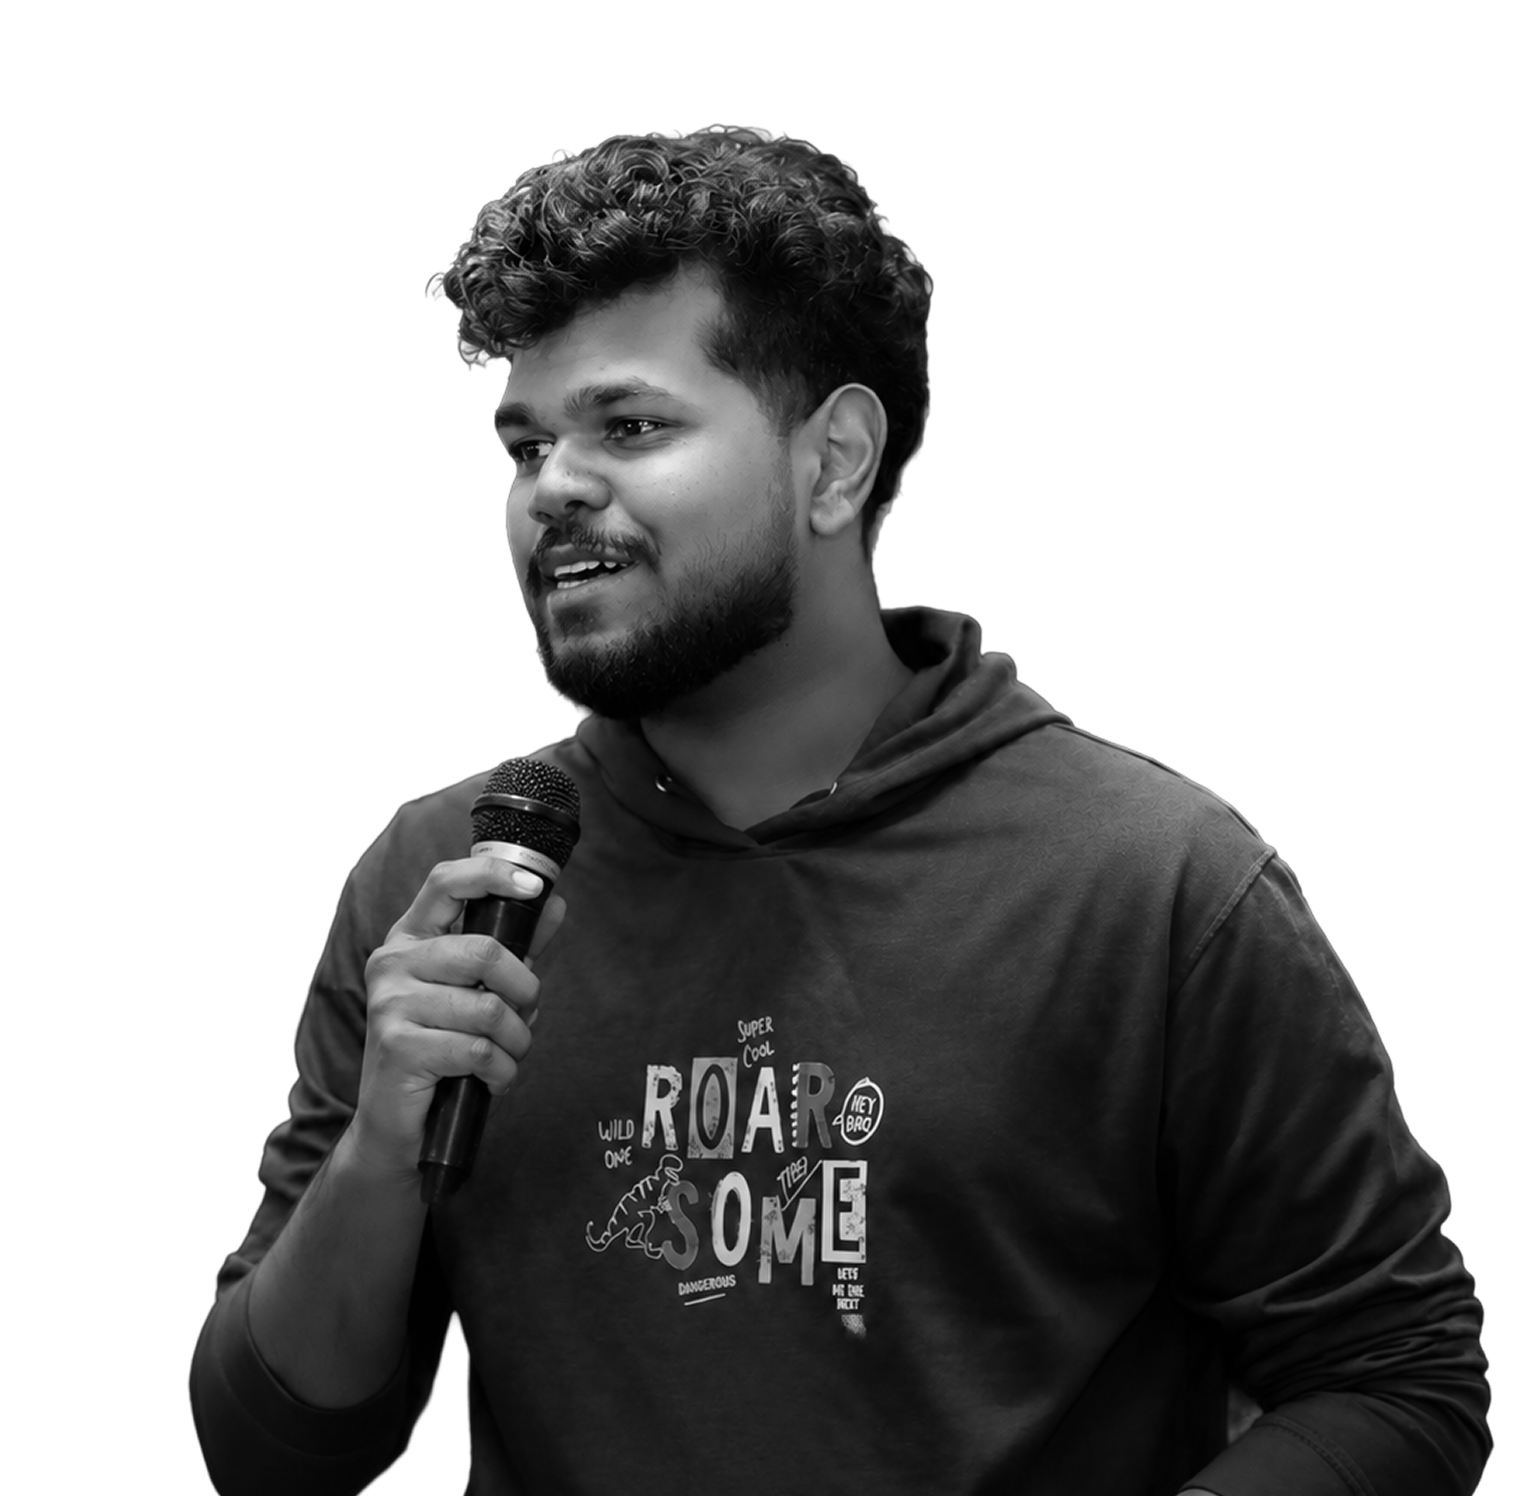
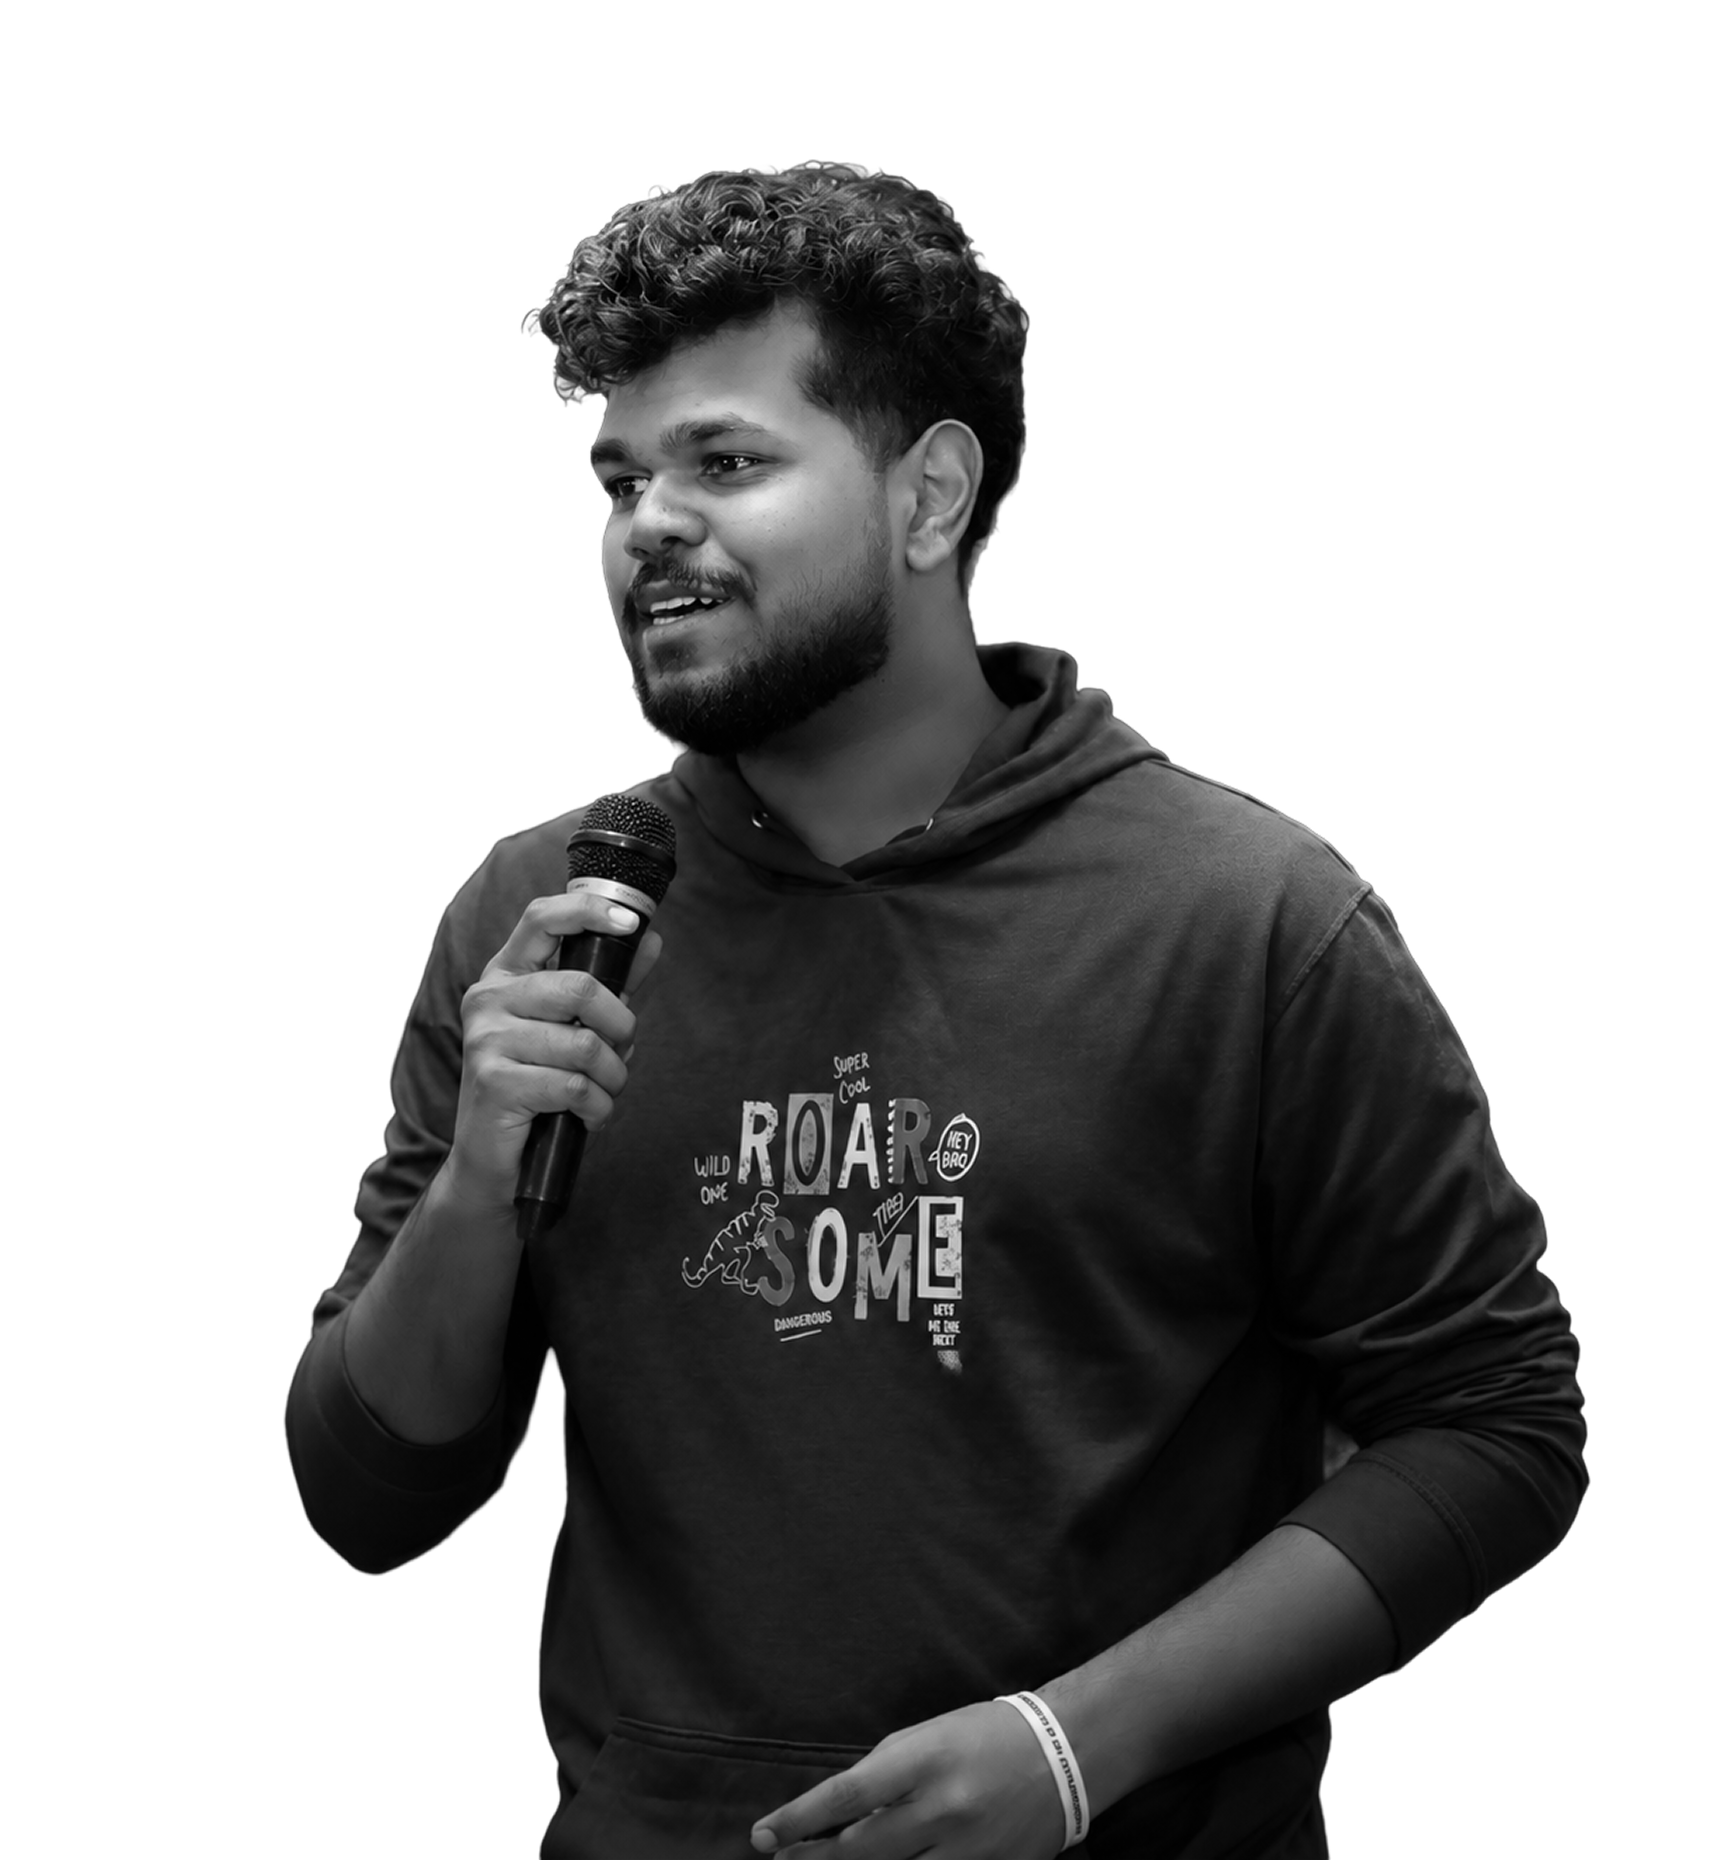
fix(about): enlarge Waruna portrait, remove hover scaling, and add bottom, right, and left shadow fade overlays to seamlessly dissolve all uncropped image boundaries

Changed region(s): [[0.1234, 0.0615, 0.9869, 1.0], [0.8018, 0.7072, 0.8327, 0.738], [0.6168, 0.7687, 0.6476, 0.7995]]

diff --git a/app/sections/About.tsx b/app/sections/About.tsx
@@ -66,51 +66,57 @@ const About = ({ isAboutPage = false }: AboutProps) => {
           {/* Right Image Showcase */}
           <div className="relative lg:order-last order-first flex items-center justify-center">
             {isAboutPage ? (
-              /* About Page Exclusive: Orbiting Circles + Waruna Speaking Portrait (No overflow clipping, aligned orbits) */
-              <div className="relative flex h-[550px] w-full max-w-[550px] items-center justify-center">
+              /* About Page Exclusive: Heroic Waruna Portrait + Subtle Orbiting DevOps Circles */
+              <div className="relative flex h-[580px] w-full max-w-[580px] items-center justify-center">
                 {/* Orbiting Circles Layer 1 (Inner Orbit) */}
-                <OrbitingCircles radius={180} duration={25} iconSize={44}>
-                  <div className="w-11 h-11 rounded-xl bg-neutral-900/90 border border-neutral-700/80 p-2 shadow-lg flex items-center justify-center">
-                    <Image src="/icons8-kubernetes-48.png" alt="Kubernetes" width={32} height={32} className="object-contain" />
+                <OrbitingCircles radius={170} duration={28} iconSize={40}>
+                  <div className="w-10 h-10 rounded-xl bg-neutral-950/90 border border-neutral-800/90 p-2 shadow-lg flex items-center justify-center">
+                    <Image src="/icons8-kubernetes-48.png" alt="Kubernetes" width={28} height={28} className="object-contain" />
                   </div>
-                  <div className="w-11 h-11 rounded-xl bg-neutral-900/90 border border-neutral-700/80 p-2 shadow-lg flex items-center justify-center">
-                    <Image src="/icons8-terraform-48.png" alt="Terraform" width={32} height={32} className="object-contain" />
+                  <div className="w-10 h-10 rounded-xl bg-neutral-950/90 border border-neutral-800/90 p-2 shadow-lg flex items-center justify-center">
+                    <Image src="/icons8-terraform-48.png" alt="Terraform" width={28} height={28} className="object-contain" />
                   </div>
-                  <div className="w-11 h-11 rounded-xl bg-neutral-900/90 border border-neutral-700/80 p-2 shadow-lg flex items-center justify-center">
-                    <Image src="/aws.png" alt="AWS" width={32} height={32} className="object-contain" />
+                  <div className="w-10 h-10 rounded-xl bg-neutral-950/90 border border-neutral-800/90 p-2 shadow-lg flex items-center justify-center">
+                    <Image src="/aws.png" alt="AWS" width={28} height={28} className="object-contain" />
                   </div>
-                  <div className="w-11 h-11 rounded-xl bg-neutral-900/90 border border-neutral-700/80 p-2 shadow-lg flex items-center justify-center">
-                    <Image src="/icons8-docker-144.png" alt="Docker" width={32} height={32} className="object-contain" />
+                  <div className="w-10 h-10 rounded-xl bg-neutral-950/90 border border-neutral-800/90 p-2 shadow-lg flex items-center justify-center">
+                    <Image src="/icons8-docker-144.png" alt="Docker" width={28} height={28} className="object-contain" />
                   </div>
                 </OrbitingCircles>
 
                 {/* Orbiting Circles Layer 2 (Outer Orbit, Reverse) */}
-                <OrbitingCircles radius={260} duration={35} reverse iconSize={48}>
-                  <div className="w-12 h-12 rounded-xl bg-neutral-900/90 border border-neutral-700/80 p-2 shadow-lg flex items-center justify-center">
-                    <Image src="/opentofu.webp" alt="OpenTofu" width={34} height={34} className="object-contain" />
+                <OrbitingCircles radius={250} duration={38} reverse iconSize={44}>
+                  <div className="w-11 h-11 rounded-xl bg-neutral-950/90 border border-neutral-800/90 p-2 shadow-lg flex items-center justify-center">
+                    <Image src="/opentofu.webp" alt="OpenTofu" width={30} height={30} className="object-contain" />
                   </div>
-                  <div className="w-12 h-12 rounded-xl bg-neutral-900/90 border border-neutral-700/80 p-2 shadow-lg flex items-center justify-center">
-                    <Image src="/icons8-azure-96.png" alt="Azure" width={34} height={34} className="object-contain" />
+                  <div className="w-11 h-11 rounded-xl bg-neutral-950/90 border border-neutral-800/90 p-2 shadow-lg flex items-center justify-center">
+                    <Image src="/icons8-azure-96.png" alt="Azure" width={30} height={30} className="object-contain" />
                   </div>
-                  <div className="w-12 h-12 rounded-xl bg-neutral-900/90 border border-neutral-700/80 p-2 shadow-lg flex items-center justify-center">
-                    <Image src="/Linux.png" alt="Linux" width={34} height={34} className="object-contain" />
+                  <div className="w-11 h-11 rounded-xl bg-neutral-950/90 border border-neutral-800/90 p-2 shadow-lg flex items-center justify-center">
+                    <Image src="/Linux.png" alt="Linux" width={30} height={30} className="object-contain" />
                   </div>
-                  <div className="w-12 h-12 rounded-xl bg-neutral-900/90 border border-neutral-700/80 p-2 shadow-lg flex items-center justify-center">
-                    <Image src="/argo-cd.webp" alt="Argo CD" width={34} height={34} className="object-contain" />
+                  <div className="w-11 h-11 rounded-xl bg-neutral-950/90 border border-neutral-800/90 p-2 shadow-lg flex items-center justify-center">
+                    <Image src="/argo-cd.webp" alt="Argo CD" width={30} height={30} className="object-contain" />
                   </div>
                 </OrbitingCircles>
 
-                {/* Central Waruna Speaking Portrait - Aligned to Orbit Center with Soft Bottom Fade */}
-                <div className="relative z-20 w-72 sm:w-80 h-[400px] sm:h-[440px] group flex items-end justify-center">
+                {/* Prominent Waruna Speaking Portrait - Frameless with Multi-Directional Gradient Fades */}
+                <div className="relative z-20 w-80 sm:w-96 md:w-[420px] h-[480px] sm:h-[520px] flex items-end justify-center">
                   <Image
                     src="/me/waruna-speaking.png"
                     alt="Waruna Udara Speaking"
                     fill
-                    className="object-cover object-top group-hover:scale-105 transition-transform duration-500"
+                    className="object-cover object-top"
                     priority
                   />
-                  {/* Smooth Bottom Gradient Fade */}
-                  <div className="absolute inset-x-0 bottom-0 h-32 bg-gradient-to-t from-black via-black/80 via-black/30 to-transparent pointer-events-none z-30" />
+                  {/* Bottom Fade Overlay: Eliminates bottom crop cut */}
+                  <div className="absolute inset-x-0 bottom-0 h-40 bg-gradient-to-t from-black via-black/85 via-black/40 to-transparent pointer-events-none z-30" />
+                  
+                  {/* Right Side Fade Overlay: Eliminates right edge cut */}
+                  <div className="absolute inset-y-0 right-0 w-32 bg-gradient-to-l from-black via-black/80 via-black/30 to-transparent pointer-events-none z-30" />
+                  
+                  {/* Left Side Subtle Fade */}
+                  <div className="absolute inset-y-0 left-0 w-16 bg-gradient-to-r from-black/50 to-transparent pointer-events-none z-30" />
                 </div>
               </div>
             ) : (
